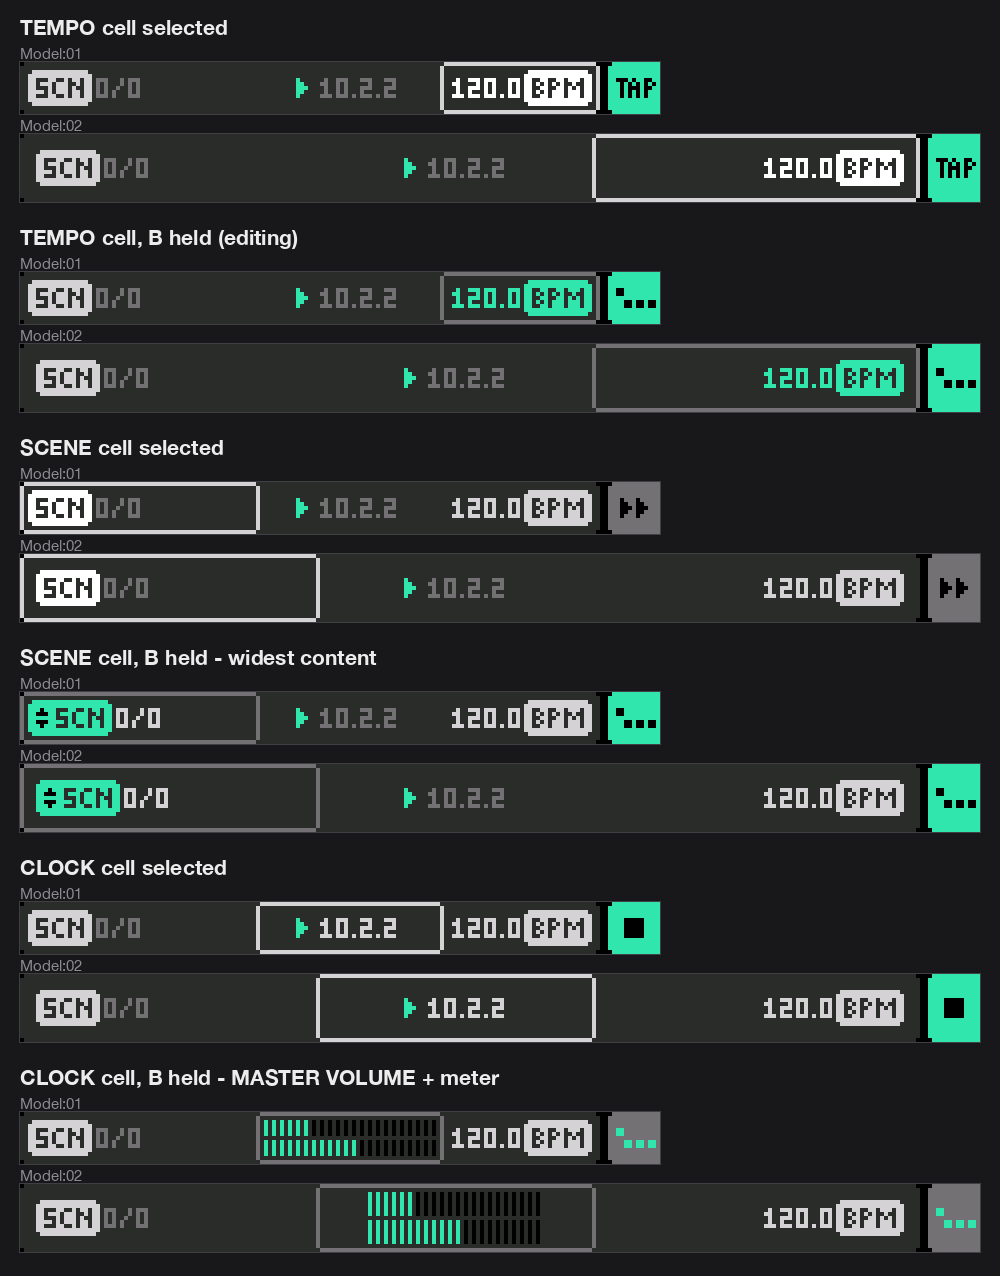
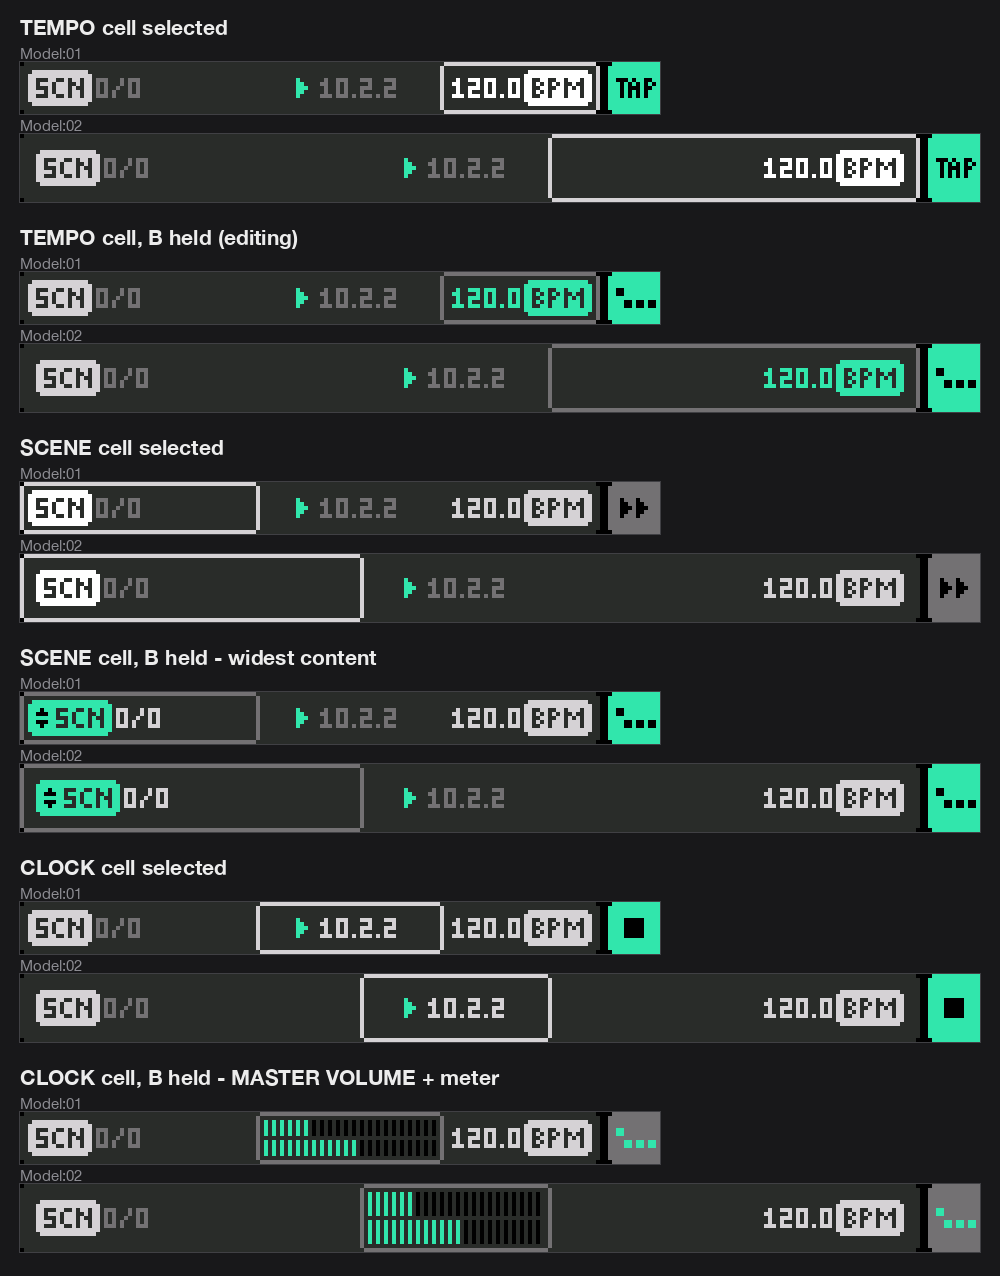
Model:02 status row: the clock cell contracted round the master meter as closely as the Model:01's (96 against 94), the scene and tempo cells taking the width it gives up
The clock cell's middle stays at 218 whatever its width, so the clock and
the meter do not move: the clock's text still runs 192-241 and the meter's
lines still start at 174, measured in the rendered screens. The scene's
contents sit at its left and the tempo's at its right, so those do not move
either (the tempo's right edge stays at 442); only where the cells meet
changes. Selecting a cell no longer shows a wide empty frame round the
clock, and the meter wraps as it does on the Model:01.

Boxes: scene {0, 172}, clock {170, 96}, tempo {264, 186}.

The Model:01 is untouched (all 81 UI preview screens byte-identical, the
Teensy build's memory use unchanged) and is built and uploaded to the M8.

diff --git a/src/ui.h b/src/ui.h
@@ -63,13 +63,15 @@ constexpr int STATUS_ROW = NUM_TRACKS, ROWS = NUM_TRACKS + 1, MENU_CELL = 0, SCE
 #if M8_MODEL == 1
 constexpr Cell MENU_BOX = {0, 0}, SCENE_BOX = {0, 120}, CLOCK_BOX = {118, 94}, TEMPO_BOX = {210, 80};
 #else
-// The Model:02: the three share the extra width about equally (each ends up
-// with ~90 px more than its contents need), rather than one cell holding all
-// the slack and showing it as a wide empty frame when it is selected. The
-// scene's contents sit at its left and the tempo's at its right, as here, so
-// only the clock's move: centred in its cell, they land halfway between the
-// two -- 129 and 131 px from them, where the Model:01 leaves 78 and 28.
-constexpr Cell MENU_BOX = {0, 0}, SCENE_BOX = {0, 150}, CLOCK_BOX = {148, 140}, TEMPO_BOX = {286, 164};
+// The Model:02: the clock cell wraps the master meter as snugly as the
+// Model:01's does (96 against 94, round the same 86 px of lines), and the
+// scene and the tempo take the rest of the extra width between them. The
+// cell's middle stays at 218 whatever its width, so the clock and the meter
+// sit exactly where they did when it was wide -- all that moves is where
+// the cells meet. The scene's contents sit at its left and the tempo's at
+// its right, so those do not move either; the clock keeps its 129 and
+// 131 px from them, where the Model:01 leaves 78 and 28.
+constexpr Cell MENU_BOX = {0, 0}, SCENE_BOX = {0, 172}, CLOCK_BOX = {170, 96}, TEMPO_BOX = {264, 186};
 #endif
 // ---- What the rows show of each track (ui.cpp): a copy of its looks, taken
 // as they're drawn. While a change is on its way to any track (a scene's, a

diff --git a/docs/testing-checklist.md b/docs/testing-checklist.md
@@ -419,4 +419,4 @@ checked, or turn it into a fix.
 - Stop, start and press record at once: the recording starts on the start's bar line, its length right.
 - Export while playing, right after recording (the export stops the clock itself): the Live set's samples are the clips' own size (not 22 MB each, the recording space's) and named (A30012.wav ...); the export no slower than from stopped. The set opens in Live, the new clips play.
 - README logo (2026-10-23): check on github.com in both themes that the logo over the README shows (the `<picture>`, light and dark, and the relative SVG paths through their proxy) and that 120 px wide looks right beside the text; nothing of it could be rendered locally.
-- Model:02 (2026-10-23, none of it on hardware - there is no Model:02 here): `-DM8_MODEL=2` lays the screen out for 480 x 320 (rows 40 px, waveform 328, filter 80, volume 48 unchanged). The Model:01 build renders byte-identically (all 81 UI preview screens diffed). Check on a device when there is one: the waveform centred and scaled in the taller cell (it sits 1 px above centre, the cell being an odd number of block rows), the filter curve's shape at 80 x 42, the volume cell's 20 steps still reading right. Check too: the status row (34 px tall, 6 px of space above it; scene 150, clock 140, tempo 164) - the scene's and tempo's contents 8 px in from the row's ends (not 4), the clock centred between its neighbours, each cell's frame when selected holding a similar amount of space, the scene's widest content (B held: arrows + SCN + "250*/250") still fitting, and the master meter (B held on the clock cell) centred with about 27 px each side. No board layer yet: the display driver (480 x 320 is not the ILI9341), its pins, keys and backlight. Still laid out for 320 x 240 at the bigger size: the help pages (`help_slides.h`, generated artwork with absolute coordinates), the menu's vertical placement, the splash logo's scale, the storage-mode screen.
+- Model:02 (2026-10-23, none of it on hardware - there is no Model:02 here): `-DM8_MODEL=2` lays the screen out for 480 x 320 (rows 40 px, waveform 328, filter 80, volume 48 unchanged). The Model:01 build renders byte-identically (all 81 UI preview screens diffed). Check on a device when there is one: the waveform centred and scaled in the taller cell (it sits 1 px above centre, the cell being an odd number of block rows), the filter curve's shape at 80 x 42, the volume cell's 20 steps still reading right. Check too: the status row (34 px tall, 6 px of space above it; scene 172, clock 96, tempo 186) - the scene's and tempo's contents 8 px in from the row's ends (not 4), the clock centred between its neighbours, each cell's frame when selected holding a similar amount of space, the scene's widest content (B held: arrows + SCN + "250*/250") still fitting, and the master meter (B held on the clock cell) wrapped as closely as the Model:01's. No board layer yet: the display driver (480 x 320 is not the ILI9341), its pins, keys and backlight. Still laid out for 320 x 240 at the bigger size: the help pages (`help_slides.h`, generated artwork with absolute coordinates), the menu's vertical placement, the splash logo's scale, the storage-mode screen.

diff --git a/docs/build-and-test.md b/docs/build-and-test.md
@@ -153,16 +153,18 @@ The Model:02 keeps the same block size (`PX` 2) and gives its extra room to
 the rows (30 -> 40 px) and to the waveform and filter cells; the status row is 34 px, a block
 shorter than the space left over, that block going to the gap above it; the volume cell
 keeps its width, because its arcs are the volume's 20 steps rather than
-anything about the cell's size. In the status row the three cells share the
-extra width about equally (each about 90 px more than its contents need),
-rather than one holding all of it and showing it as a wide empty frame when
-selected. The scene's contents sit at its left and the tempo's at its right,
-so only the clock's move: centred in its cell, they land 132 and 134 px from
-their neighbours, where the Model:01 leaves 78 and 28. The scene's and the tempo's contents also come two blocks further in from
-the row's two ends (`EDGE_INSET` in ui_status.cpp, 8 px against the
-Model:01's 4; the cells' inner edges keep 4). The master meter is
-the same 86 px on both (22 lines at a 4 px pitch), centred, so on the
-Model:02 it has about 27 px each side of it rather than 4. Nothing of the Model:02 has run on hardware
+anything about the cell's size. In the status row the clock cell stays
+as snug round the master meter as the Model:01's is (96 against 94, round
+the same 86 px of lines: 22 at a 4 px pitch), and the scene and the tempo
+take the extra width between them -- so no cell shows a wide empty frame
+when it is selected. Each cell's contents keep their own place in it (the
+scene's at its left, the clock's centred, the tempo's at its right), and
+the clock cell's middle is at 218 whichever width it has, so the clock and
+the meter sit in the middle of what the other two leave: 129 and 131 px
+from them, where the Model:01 leaves 78 and 28. The scene's and the tempo's
+contents come two blocks further in from the row's two ends than on the
+Model:01 (`EDGE_INSET` in ui_status.cpp, 8 px against 4; the cells' inner
+edges keep 4). Nothing of the Model:02 has run on hardware
 and it has no board layer yet (see docs/testing-checklist.md).
 
 ## UI preview (`tools/ui_preview`)
